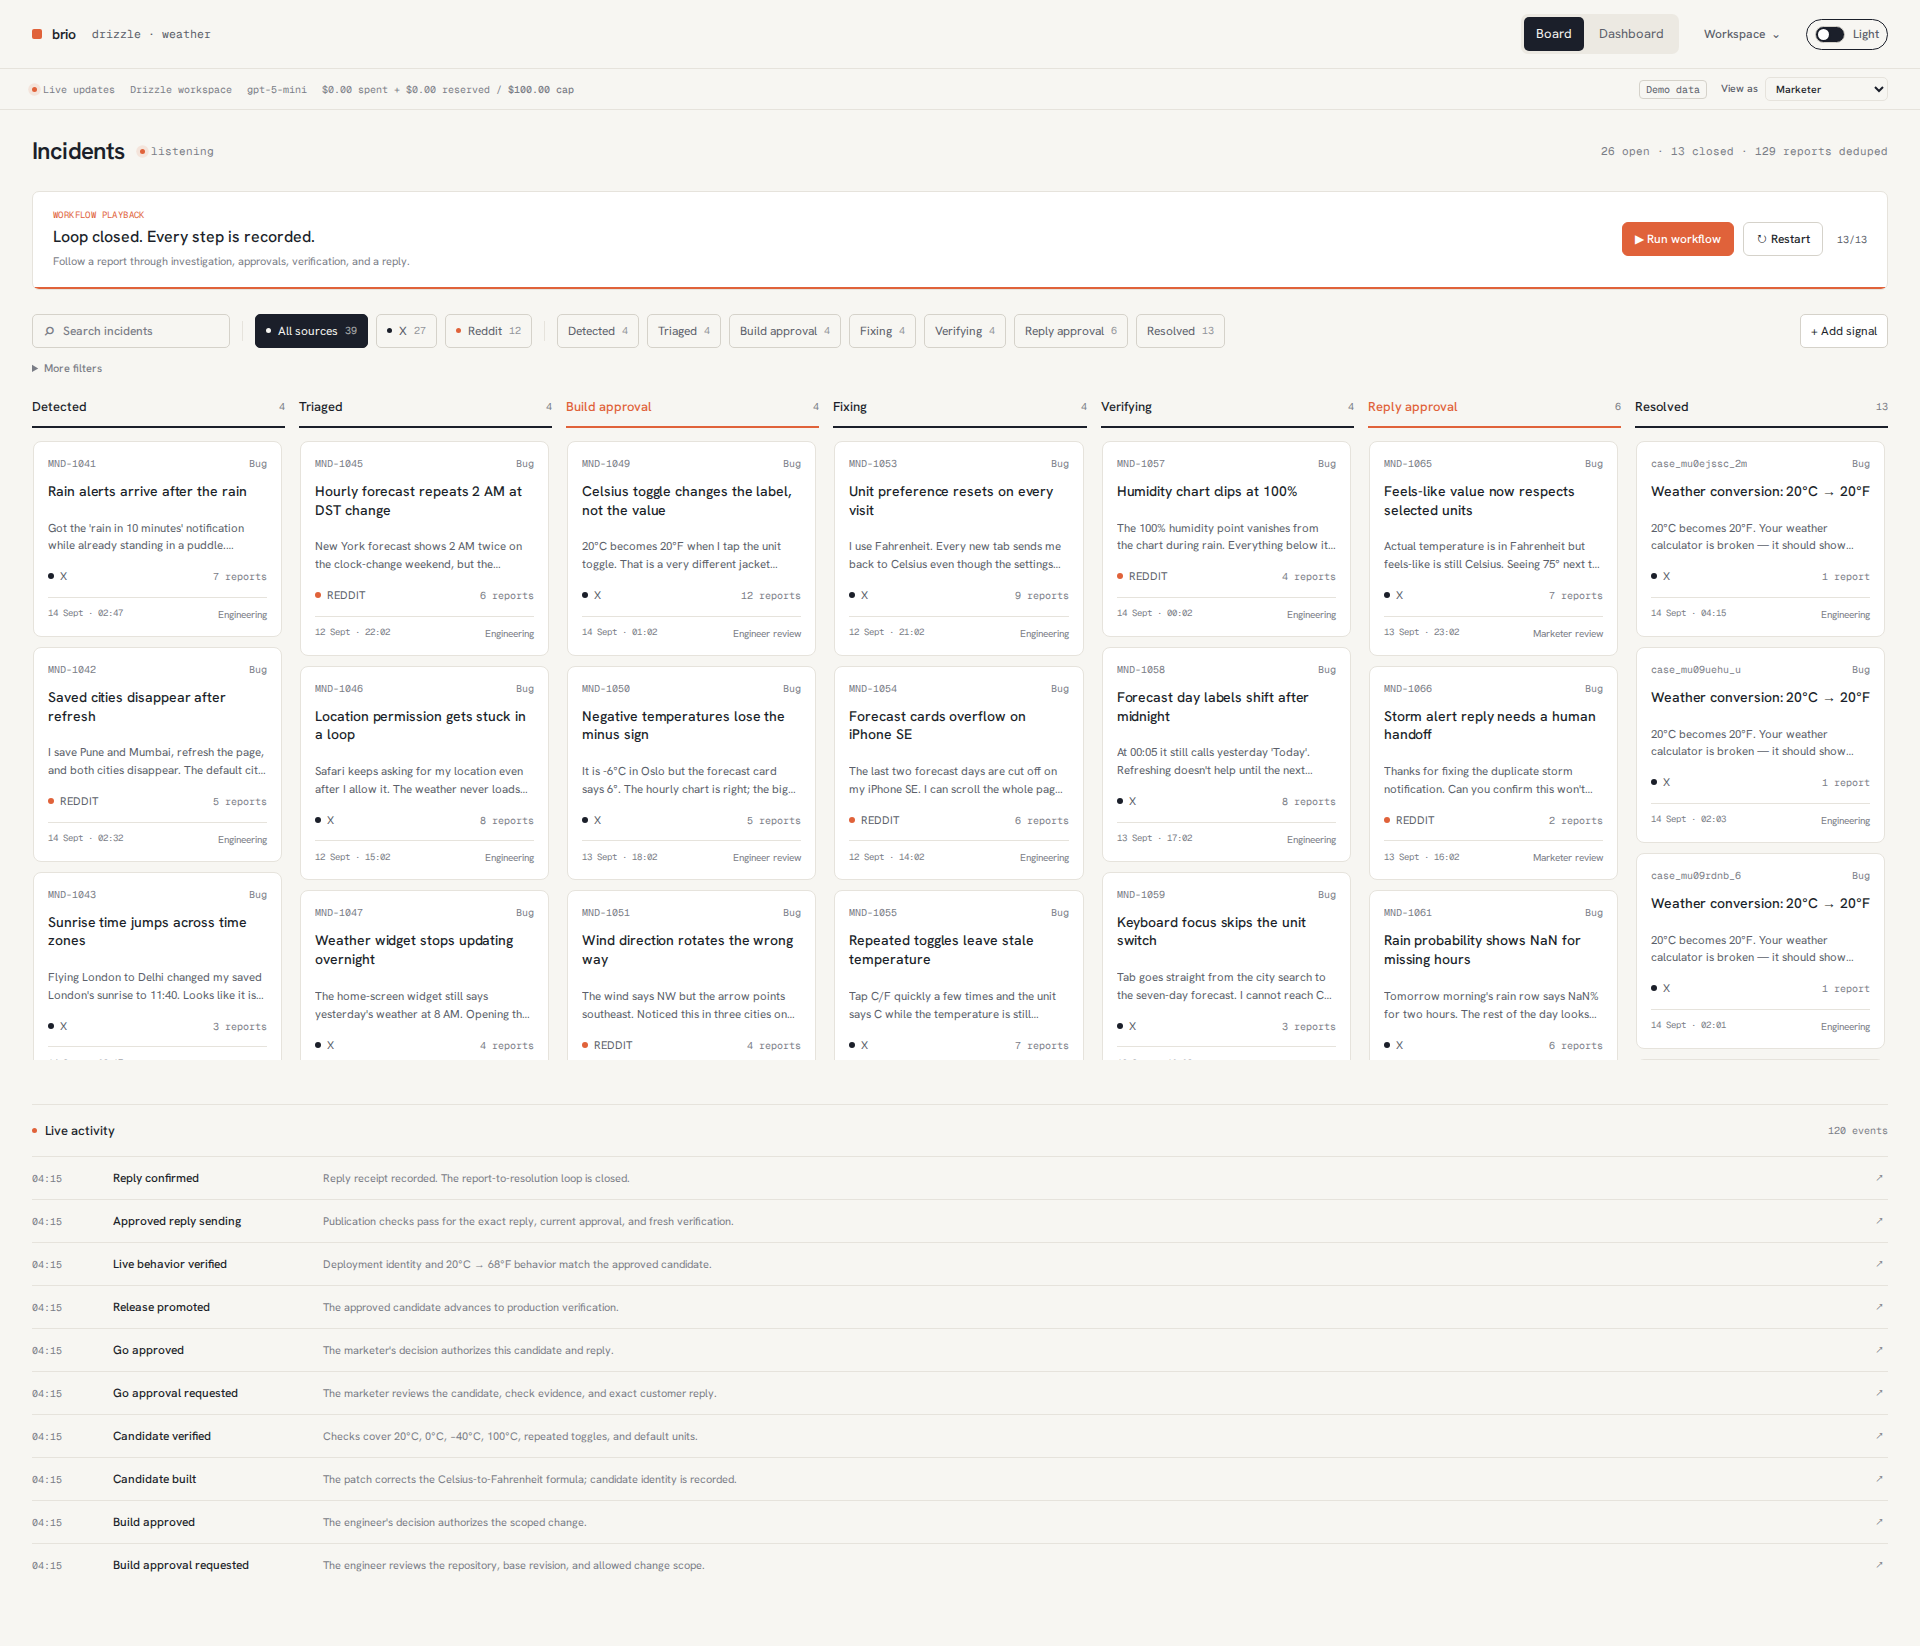
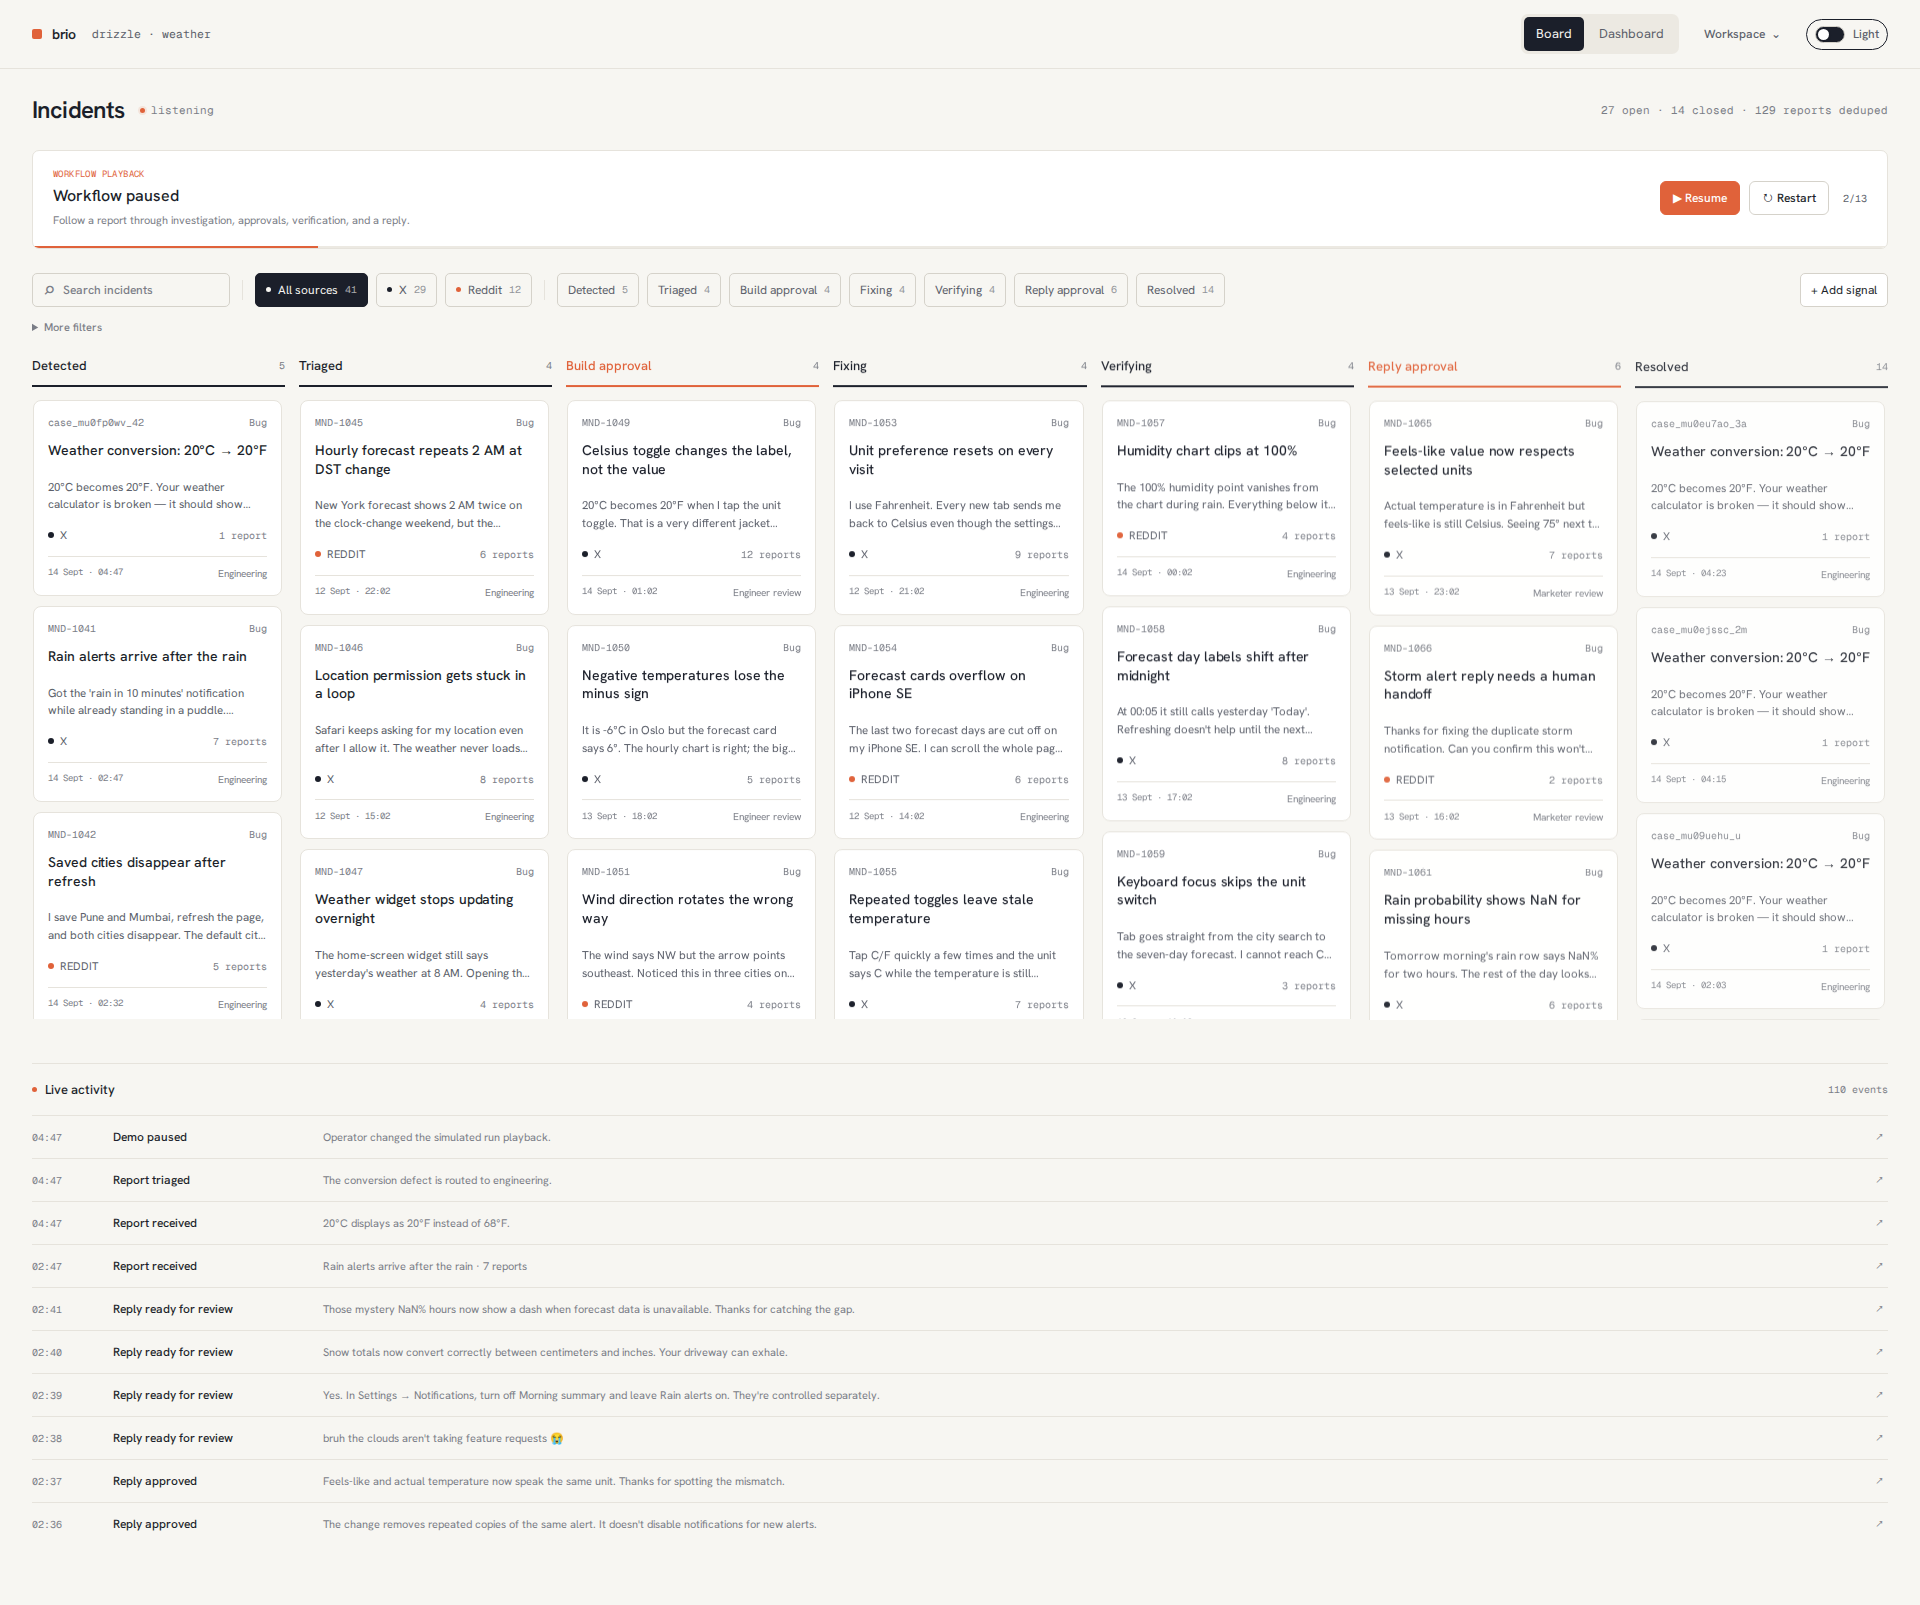
Record clean hosted UI deployment and update demo handoff

diff --git a/docs/brio-RECORDING-HANDOFF.md b/docs/brio-RECORDING-HANDOFF.md
@@ -17,7 +17,7 @@ This is the handoff for the person recording and editing the demo. The brand is 
 | Controller repository | https://github.com/Aarush-Dubey/hackathon | brio application, backend, workers and docs. |
 | Separate weather repository | https://github.com/Aarush-Dubey/hackathon-weather | Intentionally buggy target application. |
 
-**Remote recorder:** use the hosted board above. The local demo dataset has now been imported into a separate persistent Convex demo workspace. Run workflow, Pause, Resume, Restart, role switching and persona screens work there. `127.0.0.1` remains a backup available only on the development machine. The hosted and local copies evolve independently; new verification or recording runs add cases.
+**Remote recorder:** use the hosted board above. The local demo dataset has now been imported into a separate persistent Convex demo workspace. Run workflow, Pause, Resume, Restart and persona screens work there. The global model/budget strip, Demo data badge and View as selector have been removed for the public presentation. `127.0.0.1` remains a backup available only on the development machine. The hosted and local copies evolve independently; new verification or recording runs add cases.
 
 The hosted access code is the value of `CONTROL_ACCESS_PASSWORD` in the private `/home/big-daddy/Desktop/hackathon/.env` file. The project owner should share that code privately if needed. Never film this file, tokens, cookies, CLI login pages or service configuration screens.
 
@@ -85,7 +85,7 @@ The full live route still needs a controlled engineer Build, GitHub OIDC/candida
 
 This is a backup persona shot, not the exact “make it rain” example. Use the scripted scene for that exact example and **bruh 💀** response.
 
-**If manual approval controls are needed:** create a different fresh fixture via **+ Add signal → Source mode: Labeled fixture → Customer text → Store signal**. Open its **Operational controls**. With **View as: Engineer**, use **Advance demo workflow → Simulate Build → Advance demo workflow**. Switch **View as: Marketer**, then **Simulate Go → Advance demo workflow → Advance demo workflow**. These controls use the demo workspace only and do not post to actual Slack or X.
+**For approval shots:** use Run workflow with Pause/Resume and the matching Slack scenes described above. The presentation no longer exposes a View as role selector. Live engineer and marketer authority remains attached to their Slack identities.
 
 **Only if the local server is not running:**
 

diff --git a/docs/PROGRESS.md b/docs/PROGRESS.md
@@ -8,6 +8,8 @@ Highest priority completed: the hosted brio board now contains our persistent de
 
 ## Completed and verified
 
+- 14 September 2026: Removed the global workspace/status/model/budget strip, Demo data badge and View as selector from every workspace page. Source `6fe6071` is merged directly into `main` at the user’s request, with no PR; branch protections were restored afterward. Local dashboard/browser and Next.js runtime show the cleaned presentation without compilation or runtime errors. Hosted Vercel deployment `dpl_CsJGnh9u4YUvWHTNPsy1i2475YJS` is live: actual hosted dashboard and board show none of the removed labels, preserve all 41 cases and expose workflow playback, with zero browser errors. [Deployment evidence](../artifacts/brio-clean-ui-deployment.json). Existing browser assertions were updated for the removed toolbar; full suites were not rerun, following the user’s instruction to skip checks.
+
 - Hosted seed deployed from `e6ff0e1` as `dpl_6mZYMxb27ZEciWRYN5nvpVKQ4w1B`: imported 39 cases, 168 reports and 3 personas into isolated Convex `demoControlStates`. A real hosted browser test completed all 13 fixture steps, verified second-tab reactive movement, pause/resume and reload persistence. The board now has 40 cases / 169 reports including that verification case. Live state stayed unchanged, and no provider jobs/posts were sent. All 558 tests and 22 browser scenarios passed; typecheck, build and lint passed (one nonblocking test-helper warning). [Hosted evidence](../artifacts/brio-hosted-demo-verification.json).
 
 - [brio PR #2](https://github.com/Aarush-Dubey/hackathon/pull/2) passed required GitHub CI and merged normally into main `4c1279c8ed9a165319b28fad01aea0f2d1ce55e0`. Production Convex and private configuration bundles are synchronized to this controller revision. [Evidence](../artifacts/brio-reviewed-main.json).

diff --git a/docs/PRD.md b/docs/PRD.md
@@ -461,6 +461,8 @@ Relay native Convex reactive query updates through an authenticated server-sent 
 
 Show connecting, live, reconnecting, and offline/stale states with a last-update time. Reconnect automatically; use bounded polling as fallback. A later response must not overwrite a newer snapshot. Streams and fallback APIs enforce the same access controls, recheck expiring access, and close cleanly when the page is left. Reduced-motion users receive the same state updates without movement animation.
 
+Public presentation pages go directly from navigation to content. Omit the global connection/workspace/model/budget strip, Demo data badge and View as role selector; keep fixture provenance and approval records in the underlying case data.
+
 ### UI-03 — Repeatable presentation demo
 
 In explicit local or hosted demo mode, provide Run workflow, Pause, Resume, and Restart. Start one new weather incident with fixture provenance and advance it through persisted fixture transitions: intake, triage, reproduction, waiting for engineer Build, simulated Build, candidate work and verification, waiting for marketer Go, simulated Go, release/live verification, and a confirmed simulated reply. Show the active stage and a running event timeline; the same record remains visible on the board and incident page.
